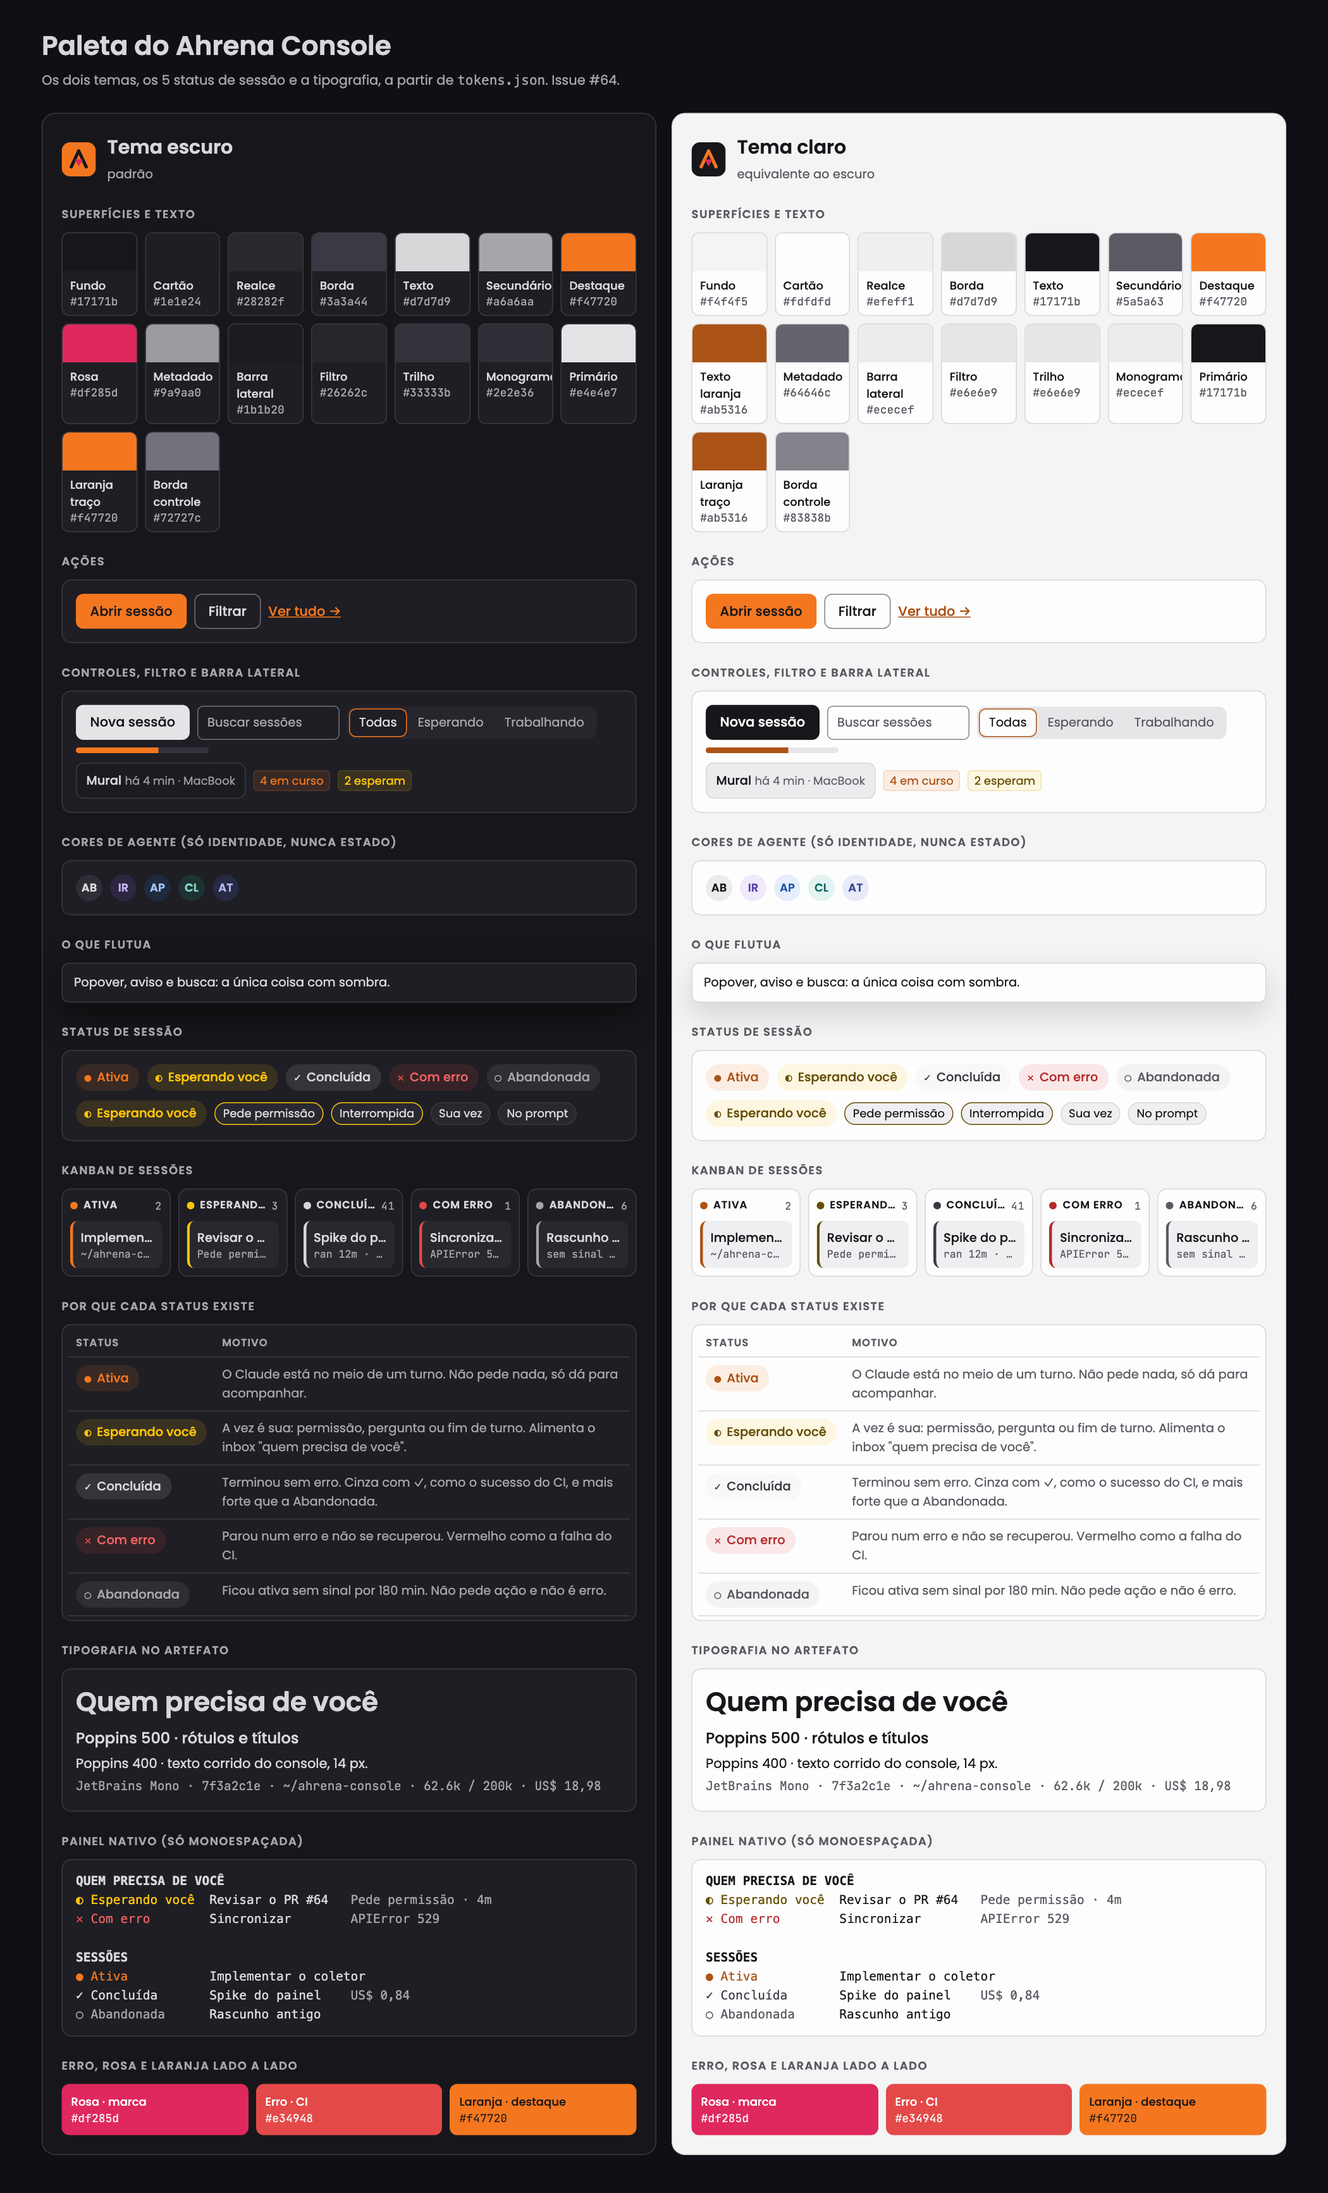
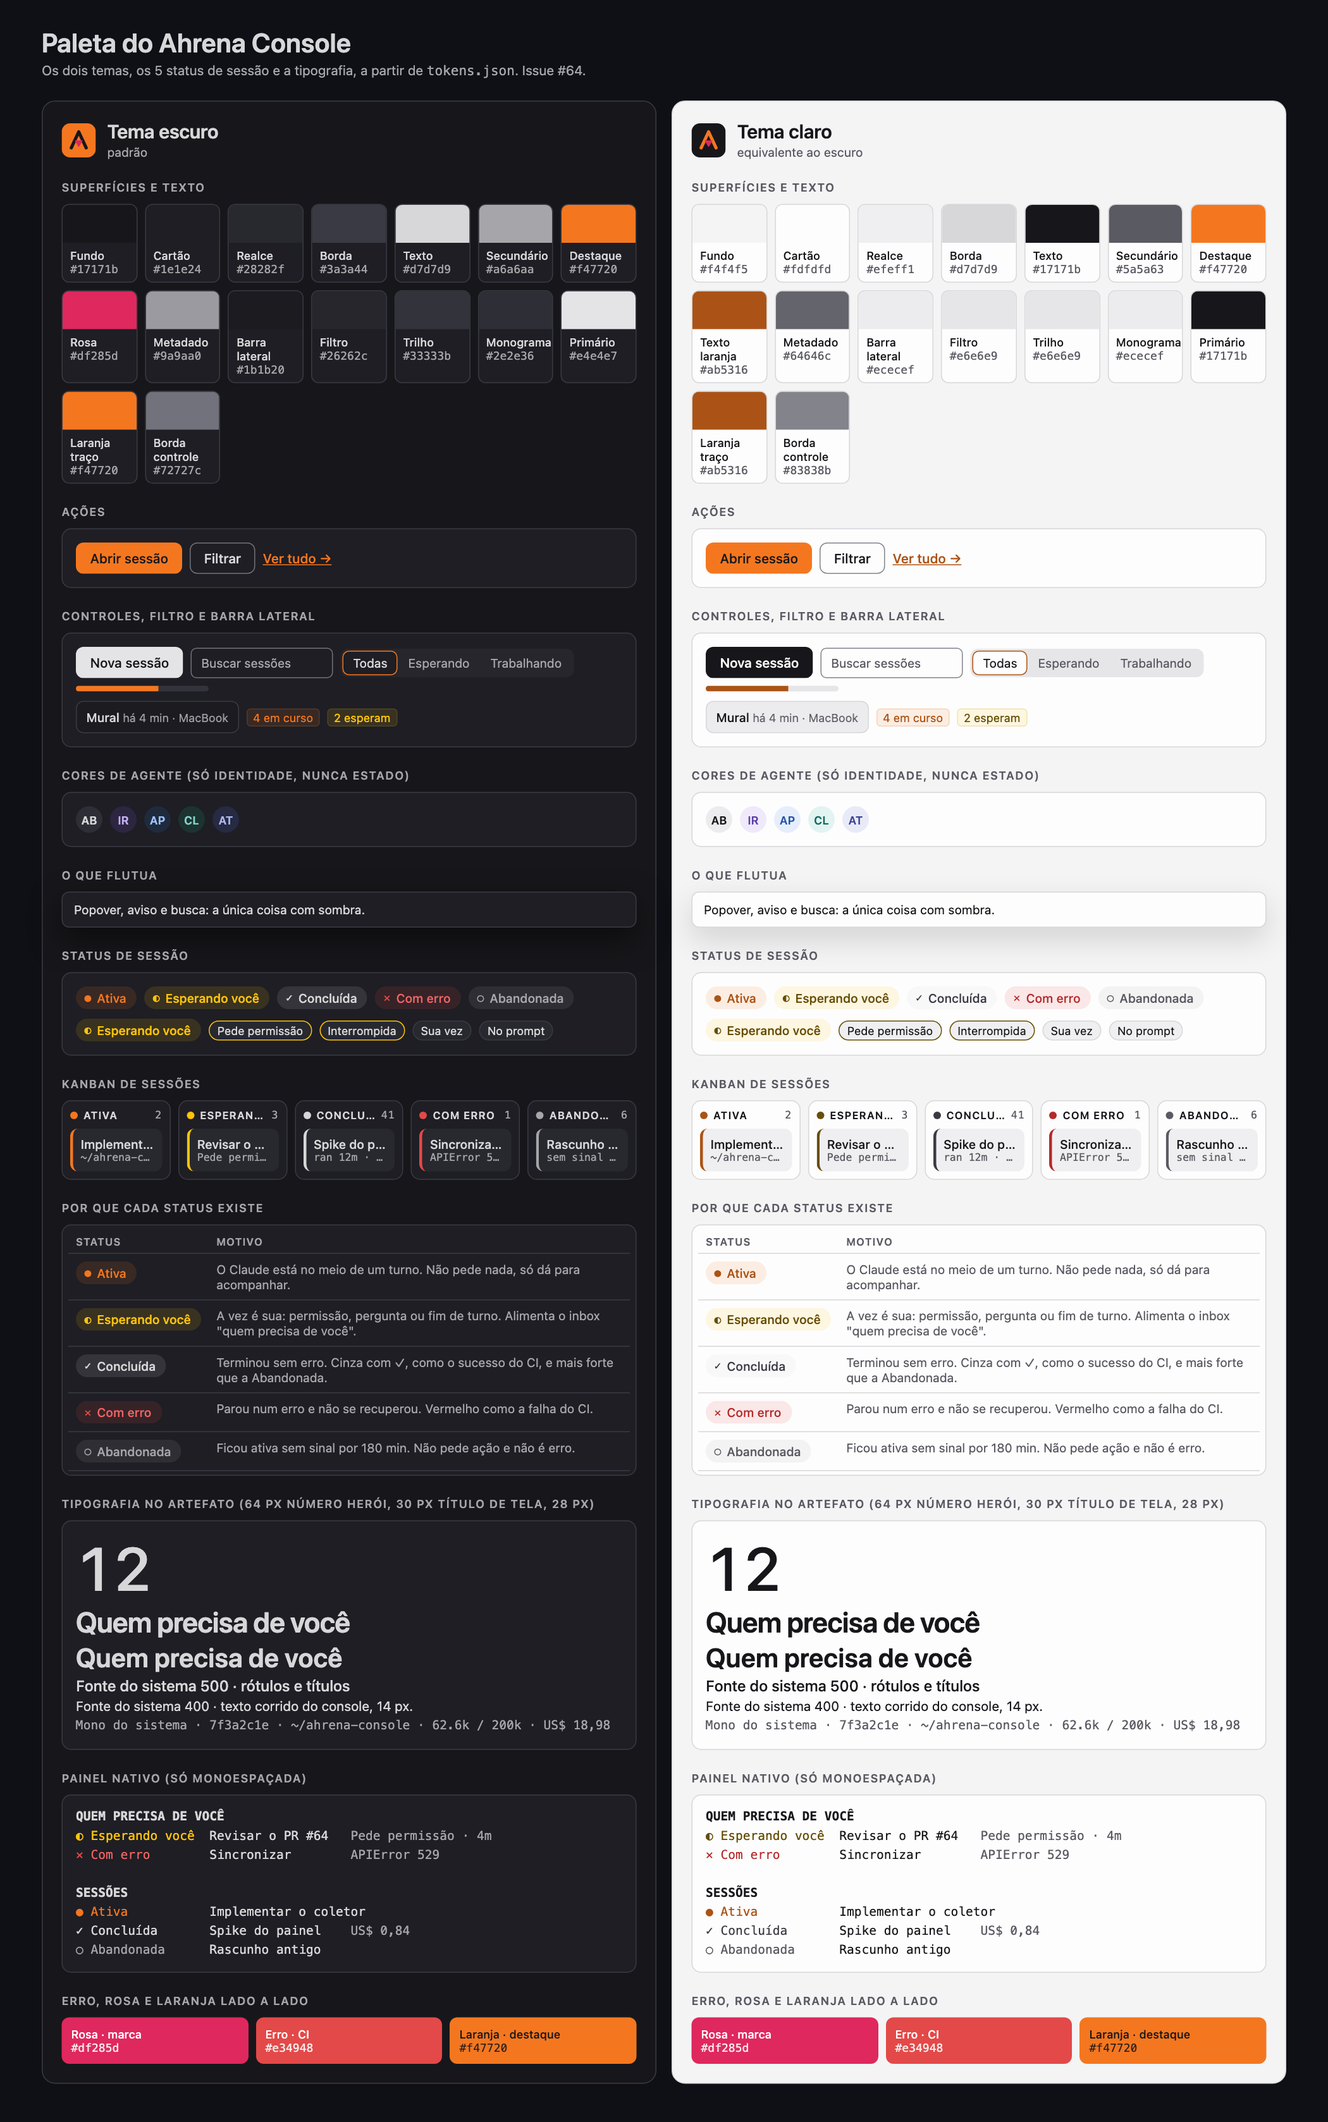
feat(brand): system font stack, no external font (#749)

diff --git a/docs/brand/amostra.html b/docs/brand/amostra.html
@@ -4,14 +4,11 @@
 <meta charset="utf-8">
 <meta name="viewport" content="width=device-width, initial-scale=1">
 <title>Paleta do Ahrena Console</title>
-<link rel="preconnect" href="https://fonts.googleapis.com">
-<link rel="preconnect" href="https://fonts.gstatic.com" crossorigin>
-<link rel="stylesheet" href="https://fonts.googleapis.com/css2?family=Poppins:wght@400;500;600&family=JetBrains+Mono:wght@400;600&display=swap">
 <!-- Os logos são cópias de logo-laranja.svg e logo-preto.svg. Os valores vêm de tokens.json. O teste test/tokens.test.mjs confere que estão todos aqui. -->
 <style>
   :root {
-    --sans: "Poppins", "Roboto", ui-sans-serif, system-ui, -apple-system, "Segoe UI", sans-serif;
-    --mono: "JetBrains Mono", ui-monospace, SFMono-Regular, Menlo, monospace;
+    --sans: -apple-system, BlinkMacSystemFont, "SF Pro Text", "Segoe UI", Inter, system-ui, sans-serif;
+    --mono: ui-monospace, "SF Mono", Menlo, Consolas, monospace;
     --orange: #f47720;
     --rose: #df285d;
     --error: #e34948;
@@ -112,6 +109,8 @@
   .table td.why { color: var(--muted); }
   .table tr:hover td { background: var(--raised); }
   .mono { font-family: var(--mono); }
+  .type .t0 { font-size: 64px; font-weight: 500; font-variant-numeric: tabular-nums; margin: 0; line-height: 1.1; }
+  .type .tt { font-size: 30px; font-weight: 600; letter-spacing: -0.02em; margin: 4px 0; }
   .type .t1 { font-size: 28px; font-weight: 600; margin: 0; }
   .type .t2 { font-size: 16px; font-weight: 500; margin: 4px 0; }
   .type .t3 { font-size: 14px; margin: 4px 0; }
@@ -233,12 +232,14 @@
     </table>
   </div>
 
-  <h3>Tipografia no artefato</h3>
+  <h3>Tipografia no artefato (64 px número herói, 30 px título de tela, 28 px)</h3>
   <div class="card type">
+    <p class="t0">12</p>
+    <p class="tt">Quem precisa de você</p>
     <p class="t1">Quem precisa de você</p>
-    <p class="t2">Poppins 500 · rótulos e títulos</p>
-    <p class="t3">Poppins 400 · texto corrido do console, 14 px.</p>
-    <p class="t4">JetBrains Mono · 7f3a2c1e · ~/ahrena-console · 62.6k / 200k · US$ 18,98</p>
+    <p class="t2">Fonte do sistema 500 · rótulos e títulos</p>
+    <p class="t3">Fonte do sistema 400 · texto corrido do console, 14 px.</p>
+    <p class="t4">Mono do sistema · 7f3a2c1e · ~/ahrena-console · 62.6k / 200k · US$ 18,98</p>
   </div>
 
   <h3>Painel nativo (só monoespaçada)</h3>

diff --git a/docs/wireframes/index.html b/docs/wireframes/index.html
@@ -1,11 +1,8 @@
 <title>Wireframes do Ahrena Console</title>
 <meta name="claude:viewport-fit-sides" content="cover">
-<link rel="stylesheet" href="https://fonts.googleapis.com/css2?family=Poppins:wght@400;500;600&family=JetBrains+Mono:wght@400;600&display=swap">
 <style>
 /* marca:inicio — cópia de packages/marca/gerado/marca.css (gerado de docs/brand/tokens.json). Atualize com `node docs/wireframes/montar.mjs`. */
 /* Gerado por packages/marca/src/gerar.ts a partir de docs/brand/tokens.json. Não edite: mude o tokens.json e rode `node packages/marca/src/gerar.ts`. */
-
-/* Fontes: https://fonts.googleapis.com/css2?family=Poppins:wght@400;500;600&family=JetBrains+Mono:wght@400;600&display=swap */
 
 /* Escuro é o padrão. */
 :root {
@@ -43,14 +40,16 @@
   --status-error: #e34948;
   --status-abandoned: #a6a6aa;
   --badge-alpha: 0.12;
-  --font-sans: "Poppins", "Roboto", ui-sans-serif, system-ui, -apple-system, "Segoe UI", sans-serif;
-  --font-mono: "JetBrains Mono", ui-monospace, SFMono-Regular, Menlo, monospace;
+  --font-sans: -apple-system, BlinkMacSystemFont, "SF Pro Text", "Segoe UI", Inter, system-ui, sans-serif;
+  --font-mono: ui-monospace, "SF Mono", Menlo, Consolas, monospace;
   --text-xs: 12px;
   --text-sm: 13px;
   --text-md: 14px;
   --text-lg: 16px;
   --text-xl: 20px;
   --text-xxl: 28px;
+  --text-title: 30px;
+  --text-hero: 64px;
   --space-xxs: 2px;
   --space-xs: 4px;
   --space-sm: 6px;
@@ -64,6 +63,7 @@
   --radius-segment: 8px;
   --radius-segment-item: 6px;
   --radius-full: 999px;
+  --tracking-title: -0.02em;
   --weight-regular: 400;
   --weight-medium: 500;
   --weight-semibold: 600;

diff --git a/packages/marca/gerado/marca.ts b/packages/marca/gerado/marca.ts
@@ -199,25 +199,31 @@ export const status = {
 } as const
 
 export const tipografia = {
-  "sans": "\"Poppins\", \"Roboto\", ui-sans-serif, system-ui, -apple-system, \"Segoe UI\", sans-serif",
-  "mono": "\"JetBrains Mono\", ui-monospace, SFMono-Regular, Menlo, monospace",
-  "googleFonts": "https://fonts.googleapis.com/css2?family=Poppins:wght@400;500;600&family=JetBrains+Mono:wght@400;600&display=swap",
+  "sans": "-apple-system, BlinkMacSystemFont, \"SF Pro Text\", \"Segoe UI\", Inter, system-ui, sans-serif",
+  "mono": "ui-monospace, \"SF Mono\", Menlo, Consolas, monospace",
   "size": {
     "xs": "12px",
     "sm": "13px",
     "md": "14px",
     "lg": "16px",
     "xl": "20px",
-    "xxl": "28px"
+    "xxl": "28px",
+    "title": "30px",
+    "hero": "64px"
   },
   "weight": {
     "regular": 400,
     "medium": 500,
     "semibold": 600
   },
+  "tracking": {
+    "title": "-0.02em"
+  },
   "usos": {
     "sans": "títulos, rótulos e texto corrido no artefato",
-    "mono": "ids, caminhos, números de tabela, custo e tokens; e tudo no painel nativo"
+    "mono": "ids, caminhos, números de tabela, custo e tokens; e tudo no painel nativo",
+    "title": "título de tela, peso 600 e --tracking-title",
+    "hero": "o número herói, peso 500, com dígitos tabulares (font-variant-numeric: tabular-nums) e sem ajuste de espaçamento"
   }
 } as const
 

diff --git a/plugins/ahrena-console/hooks/brand.ts b/plugins/ahrena-console/hooks/brand.ts
@@ -199,25 +199,31 @@ export const status = {
 } as const
 
 export const tipografia = {
-  "sans": "\"Poppins\", \"Roboto\", ui-sans-serif, system-ui, -apple-system, \"Segoe UI\", sans-serif",
-  "mono": "\"JetBrains Mono\", ui-monospace, SFMono-Regular, Menlo, monospace",
-  "googleFonts": "https://fonts.googleapis.com/css2?family=Poppins:wght@400;500;600&family=JetBrains+Mono:wght@400;600&display=swap",
+  "sans": "-apple-system, BlinkMacSystemFont, \"SF Pro Text\", \"Segoe UI\", Inter, system-ui, sans-serif",
+  "mono": "ui-monospace, \"SF Mono\", Menlo, Consolas, monospace",
   "size": {
     "xs": "12px",
     "sm": "13px",
     "md": "14px",
     "lg": "16px",
     "xl": "20px",
-    "xxl": "28px"
+    "xxl": "28px",
+    "title": "30px",
+    "hero": "64px"
   },
   "weight": {
     "regular": 400,
     "medium": 500,
     "semibold": 600
   },
+  "tracking": {
+    "title": "-0.02em"
+  },
   "usos": {
     "sans": "títulos, rótulos e texto corrido no artefato",
-    "mono": "ids, caminhos, números de tabela, custo e tokens; e tudo no painel nativo"
+    "mono": "ids, caminhos, números de tabela, custo e tokens; e tudo no painel nativo",
+    "title": "título de tela, peso 600 e --tracking-title",
+    "hero": "o número herói, peso 500, com dígitos tabulares (font-variant-numeric: tabular-nums) e sem ajuste de espaçamento"
   }
 } as const
 

diff --git a/spikes/painel-teste/hooks/marca.ts b/spikes/painel-teste/hooks/marca.ts
@@ -199,25 +199,31 @@ export const status = {
 } as const
 
 export const tipografia = {
-  "sans": "\"Poppins\", \"Roboto\", ui-sans-serif, system-ui, -apple-system, \"Segoe UI\", sans-serif",
-  "mono": "\"JetBrains Mono\", ui-monospace, SFMono-Regular, Menlo, monospace",
-  "googleFonts": "https://fonts.googleapis.com/css2?family=Poppins:wght@400;500;600&family=JetBrains+Mono:wght@400;600&display=swap",
+  "sans": "-apple-system, BlinkMacSystemFont, \"SF Pro Text\", \"Segoe UI\", Inter, system-ui, sans-serif",
+  "mono": "ui-monospace, \"SF Mono\", Menlo, Consolas, monospace",
   "size": {
     "xs": "12px",
     "sm": "13px",
     "md": "14px",
     "lg": "16px",
     "xl": "20px",
-    "xxl": "28px"
+    "xxl": "28px",
+    "title": "30px",
+    "hero": "64px"
   },
   "weight": {
     "regular": 400,
     "medium": 500,
     "semibold": 600
   },
+  "tracking": {
+    "title": "-0.02em"
+  },
   "usos": {
     "sans": "títulos, rótulos e texto corrido no artefato",
-    "mono": "ids, caminhos, números de tabela, custo e tokens; e tudo no painel nativo"
+    "mono": "ids, caminhos, números de tabela, custo e tokens; e tudo no painel nativo",
+    "title": "título de tela, peso 600 e --tracking-title",
+    "hero": "o número herói, peso 500, com dígitos tabulares (font-variant-numeric: tabular-nums) e sem ajuste de espaçamento"
   }
 } as const
 

diff --git a/packages/marca/gerado/marca.css b/packages/marca/gerado/marca.css
@@ -1,7 +1,5 @@
 /* Gerado por packages/marca/src/gerar.ts a partir de docs/brand/tokens.json. Não edite: mude o tokens.json e rode `node packages/marca/src/gerar.ts`. */
 
-/* Fontes: https://fonts.googleapis.com/css2?family=Poppins:wght@400;500;600&family=JetBrains+Mono:wght@400;600&display=swap */
-
 /* Escuro é o padrão. */
 :root {
   color-scheme: dark;
@@ -38,14 +36,16 @@
   --status-error: #e34948;
   --status-abandoned: #a6a6aa;
   --badge-alpha: 0.12;
-  --font-sans: "Poppins", "Roboto", ui-sans-serif, system-ui, -apple-system, "Segoe UI", sans-serif;
-  --font-mono: "JetBrains Mono", ui-monospace, SFMono-Regular, Menlo, monospace;
+  --font-sans: -apple-system, BlinkMacSystemFont, "SF Pro Text", "Segoe UI", Inter, system-ui, sans-serif;
+  --font-mono: ui-monospace, "SF Mono", Menlo, Consolas, monospace;
   --text-xs: 12px;
   --text-sm: 13px;
   --text-md: 14px;
   --text-lg: 16px;
   --text-xl: 20px;
   --text-xxl: 28px;
+  --text-title: 30px;
+  --text-hero: 64px;
   --space-xxs: 2px;
   --space-xs: 4px;
   --space-sm: 6px;
@@ -59,6 +59,7 @@
   --radius-segment: 8px;
   --radius-segment-item: 6px;
   --radius-full: 999px;
+  --tracking-title: -0.02em;
   --weight-regular: 400;
   --weight-medium: 500;
   --weight-semibold: 600;

diff --git a/packages/nucleo/ui/brand.css b/packages/nucleo/ui/brand.css
@@ -1,7 +1,5 @@
 /* Gerado por packages/marca/src/gerar.ts a partir de docs/brand/tokens.json. Não edite: mude o tokens.json e rode `node packages/marca/src/gerar.ts`. */
 
-/* Fontes: https://fonts.googleapis.com/css2?family=Poppins:wght@400;500;600&family=JetBrains+Mono:wght@400;600&display=swap */
-
 /* Escuro é o padrão. */
 :root {
   color-scheme: dark;
@@ -38,14 +36,16 @@
   --status-error: #e34948;
   --status-abandoned: #a6a6aa;
   --badge-alpha: 0.12;
-  --font-sans: "Poppins", "Roboto", ui-sans-serif, system-ui, -apple-system, "Segoe UI", sans-serif;
-  --font-mono: "JetBrains Mono", ui-monospace, SFMono-Regular, Menlo, monospace;
+  --font-sans: -apple-system, BlinkMacSystemFont, "SF Pro Text", "Segoe UI", Inter, system-ui, sans-serif;
+  --font-mono: ui-monospace, "SF Mono", Menlo, Consolas, monospace;
   --text-xs: 12px;
   --text-sm: 13px;
   --text-md: 14px;
   --text-lg: 16px;
   --text-xl: 20px;
   --text-xxl: 28px;
+  --text-title: 30px;
+  --text-hero: 64px;
   --space-xxs: 2px;
   --space-xs: 4px;
   --space-sm: 6px;
@@ -59,6 +59,7 @@
   --radius-segment: 8px;
   --radius-segment-item: 6px;
   --radius-full: 999px;
+  --tracking-title: -0.02em;
   --weight-regular: 400;
   --weight-medium: 500;
   --weight-semibold: 600;

diff --git a/packages/marca/test/marca.test.ts b/packages/marca/test/marca.test.ts
@@ -50,6 +50,8 @@ test('o módulo do painel traz as cores do tokens.json, em hex', () => {
     assert.deepEqual([s.label, s.glyph, s.color, s.dark, s.light], [fonte.label, fonte.glyph, fonte.color, fonte.dark, fonte.light], id)
   }
   assert.equal(marca.tipografia.mono, tokens.typography.mono)
+  assert.equal(marca.tipografia.sans, tokens.typography.sans)
+  assert.ok(!('googleFonts' in marca.tipografia))
 })
 
 // Lê as variáveis de um bloco do CSS gerado.
@@ -82,6 +84,11 @@ test('o CSS do artefato: escuro no :root, claro por prefers-color-scheme e por d
   }
   assert.equal(raizCss['orange-500'], '#f47720')
   assert.equal(raizCss['font-sans'], tokens.typography.sans)
+  assert.equal(raizCss['font-mono'], tokens.typography.mono)
+  assert.equal(raizCss['text-title'], '30px')
+  assert.equal(raizCss['text-hero'], '64px')
+  assert.equal(raizCss['tracking-title'], '-0.02em')
+  assert.doesNotMatch(css, /googleapis|@font-face|https?:/, 'o CSS não carrega fonte de fora')
 })
 
 test('o painel de teste não fixa à mão nenhuma cor que já está na marca', () => {

diff --git a/packages/marca/src/gerar.ts b/packages/marca/src/gerar.ts
@@ -95,6 +95,7 @@ export function gerarCss(tokens: Tokens): string {
   for (const [nome, v] of Object.entries(tipo.size)) fixas.push(variavel(`text-${nome}`, v as string))
   for (const [name, v] of Object.entries(limpo(tokens.spacing))) fixas.push(variavel(`space-${name}`, v as string))
   for (const [nome, v] of Object.entries(limpo(tokens.radius))) fixas.push(variavel(`radius-${kebab(nome)}`, v as string))
+  for (const [nome, v] of Object.entries(limpo(tipo.tracking))) fixas.push(variavel(`tracking-${nome}`, v as string))
   for (const [nome, v] of Object.entries(tipo.weight)) fixas.push(variavel(`weight-${nome}`, v as number))
 
   const escuro = variaveisDoTema(tokens, 'dark')
@@ -102,8 +103,6 @@ export function gerarCss(tokens: Tokens): string {
   const indentar = (linhas: string[]) => linhas.map(l => `  ${l}`)
   return [
     cabecalho('/*').replace(/\n$/, ' */\n'),
-    `/* Fontes: ${tipo.googleFonts} */`,
-    '',
     '/* Escuro é o padrão. */',
     ':root {',
     '  color-scheme: dark;',

diff --git a/docs/design.md b/docs/design.md
@@ -141,14 +141,19 @@ No tema claro, ponto e rótulo usam um tom mais escuro da mesma cor (laranja 700
 
 ### Tipografia
 
-As mesmas fontes do site do The Forward Deployed Engineer, ambas livres (SIL Open Font License):
+A fonte é a **do sistema**. Não se baixa nada: a política de conteúdo do núcleo não tem `font-src` e a `/ui` não serve arquivo de fonte, então Poppins e JetBrains Mono, que a marca pedia até a decisão [0028](decisoes/0028-console-visual-redesign.md), nunca carregavam.
 
-- **Poppins** para títulos, rótulos e texto corrido no artefato: `"Poppins", "Roboto", ui-sans-serif, system-ui, -apple-system, "Segoe UI", sans-serif`;
-- **JetBrains Mono** para ids, caminhos, números de tabela, custo e tokens: `"JetBrains Mono", ui-monospace, SFMono-Regular, Menlo, monospace`.
+- **Sans**, para títulos, rótulos e texto corrido no artefato: `-apple-system, BlinkMacSystemFont, "SF Pro Text", "Segoe UI", Inter, system-ui, sans-serif` (`--font-sans`). SF Pro no Mac, Segoe UI no Windows;
+- **Mono**, para ids, caminhos, números de tabela, custo e tokens: `ui-monospace, "SF Mono", Menlo, Consolas, monospace` (`--font-mono`).
 
-No artefato HTML, as duas vêm do Google Fonts, com a pilha do sistema como reserva. No painel nativo do Claude Desktop não dá para escolher fonte: ele usa a monoespaçada do app. Ali a hierarquia vem de peso (negrito nos títulos), caixa alta nos cabeçalhos de seção, cor (texto principal e secundário) e dos glifos de status.
+No painel nativo do Claude Desktop não dá para escolher fonte: ele usa a monoespaçada do app. Ali a hierarquia vem de peso (negrito nos títulos), caixa alta nos cabeçalhos de seção, cor (texto principal e secundário) e dos glifos de status.
 
-Escala do artefato: 12, 13, 14, 16, 20 e 28 px; pesos 400, 500 e 600.
+Escala do artefato: 12, 13, 14, 16, 20 e 28 px (`--text-xs` a `--text-xxl`), mais dois tamanhos novos:
+
+- **título de tela**, 30 px (`--text-title`), peso 600, espaçamento `-0.02em` (`--tracking-title`);
+- **número herói**, 64 px (`--text-hero`), peso 500, com dígitos tabulares (`font-variant-numeric: tabular-nums`) e sem ajuste de espaçamento.
+
+Pesos 400, 500 e 600.
 
 ## Logo
 

diff --git a/packages/nucleo/ui/README.md b/packages/nucleo/ui/README.md
@@ -170,7 +170,7 @@ Sessões, Mural ao vivo, Kanban (as duas visões), Feed, Histórico e Dashboard 
 
 ## Regras
 
-- **Só 127.0.0.1.** A política de conteúdo do núcleo (`src/api/ui.ts`) bloqueia scripts, estilos, fontes e `fetch` de fora. Por isso a fonte é a do sistema quando a Poppins não está instalada.
+- **Só 127.0.0.1.** A política de conteúdo do núcleo (`src/api/ui.ts`) bloqueia scripts, estilos, fontes e `fetch` de fora. Por isso a fonte é a do sistema (`--font-sans` e `--font-mono`), sem arquivo de fonte.
 - **Toda leitura passa por `read()`, toda escrita por `write()`**, nunca por `fetch` direto: é o que deixa a mesma página rodar no artefato.
 - **As escritas com o `Origin` da página**: o abrir a sessão onde ela roda (`POST /api/sessions/<uuid>/open`, com o caminho exato), o mover card do Kanban do projeto, o `POST /api/agent-config/skill` da Agent Config e, da issue 241, as quatro da conexão com o GitHub (`/api/connections/github/…`) e a escolha do Project (`POST /api/project/selection`), estas só da própria `/ui`.
 - **Texto do núcleo entra por `textContent`** (`el()` já faz isso). Nada de `innerHTML` com dado.
